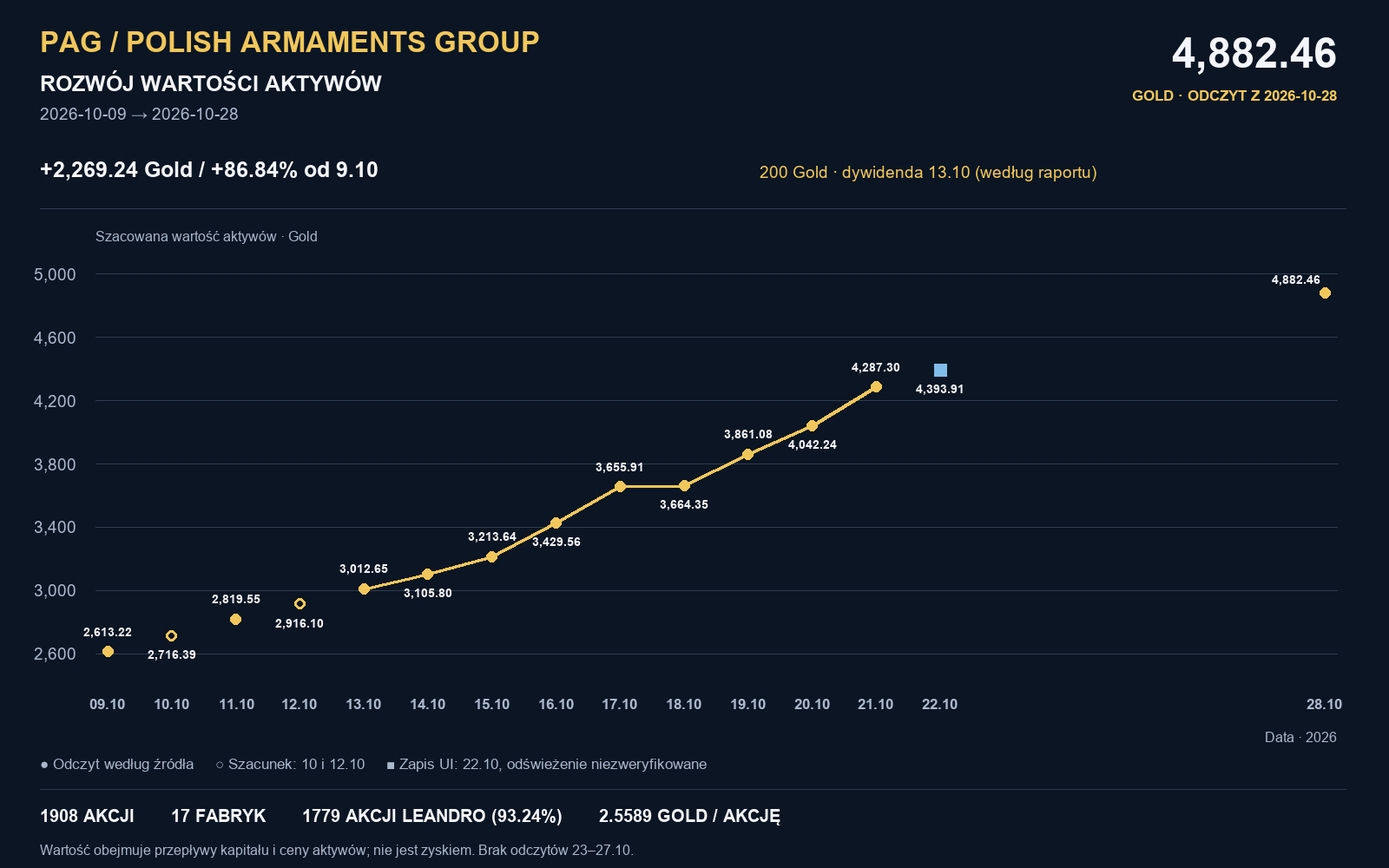
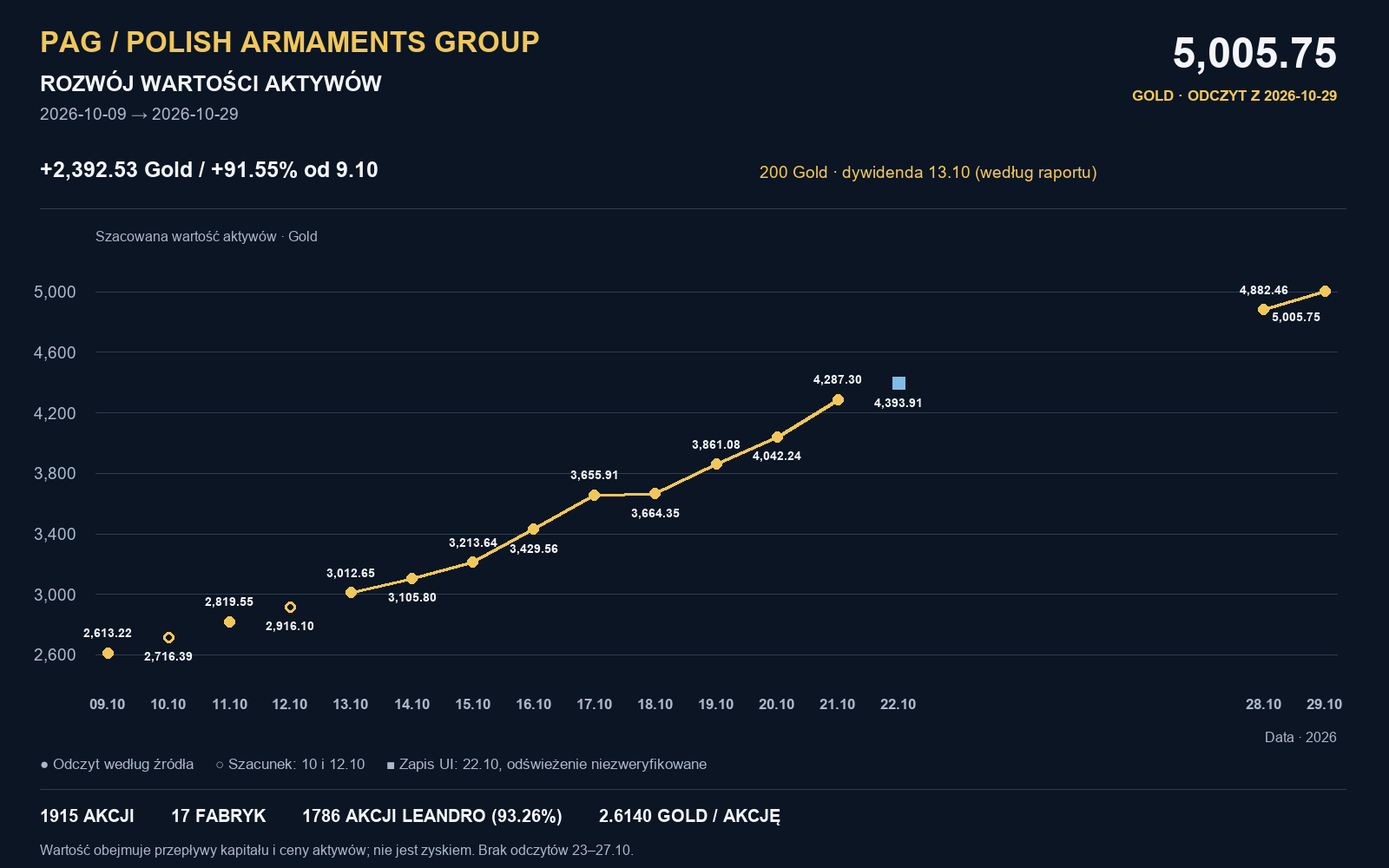
Add refreshed PAG measurement for 29 October 2026

diff --git a/pag-chart.html b/pag-chart.html
@@ -1805,7 +1805,7 @@ html&gt;body{padding:0}&lt;/style&gt;
 &lt;script src=&quot;https://cdn.jsdelivr.net/npm/d3@7.9.0/dist/d3.min.js&quot;&gt;&lt;/script&gt;
 &lt;script&gt;
 (()=&gt;{
-const history={&quot;company&quot;: &quot;Polish Armaments Group&quot;, &quot;source_url&quot;: &quot;https://vexa.e-sim.org/stockCompany.html?id=45&quot;, &quot;timezone&quot;: &quot;Europe/Warsaw&quot;, &quot;definitions&quot;: {&quot;value_gold&quot;: &quot;Szacowana wartość spółki według Vexa; nie jest zyskiem ani kapitalizacją rynkową.&quot;, &quot;book_value_per_share_gold&quot;: &quot;value_gold / shares; obliczenie, nie cena transakcyjna.&quot;, &quot;factories&quot;: &quot;Ogólnie firm na stronie spółki.&quot;, &quot;leandro_percent&quot;: &quot;100 * leandro_shares / shares&quot;, &quot;status&quot;: &quot;confirmed_in_user_report: odczyt oznaczony jako potwierdzony w raporcie użytkownika; bez niezależnej weryfikacji. estimated_missing_day: szacunek brakującego dnia, nie pomiar. saved_ui_refresh_unverified: zapis UI, odświeżenie wyceny niezweryfikowane.&quot;}, &quot;observations&quot;: [{&quot;date&quot;: &quot;2026-10-09&quot;, &quot;observed_at&quot;: null, &quot;value_gold&quot;: 2613.22, &quot;shares&quot;: null, &quot;leandro_shares&quot;: null, &quot;leandro_percent_reported&quot;: null, &quot;factories&quot;: null, &quot;shareholders&quot;: null, &quot;reported_book_value_per_share_gold&quot;: null, &quot;status&quot;: &quot;confirmed_in_user_report&quot;, &quot;source&quot;: &quot;Raport graficzny przesłany przez użytkownika 2026-10-29&quot;, &quot;source_url&quot;: &quot;https://github.com/piotrzdrenka-droid/pag-chart/blob/main/pag-chart.png?raw=true&quot;, &quot;source_blob_sha&quot;: &quot;903d835cdb9e62c0f7de1f23d691339e15198607&quot;}, {&quot;date&quot;: &quot;2026-10-10&quot;, &quot;observed_at&quot;: null, &quot;value_gold&quot;: 2716.39, &quot;shares&quot;: null, &quot;leandro_shares&quot;: null, &quot;leandro_percent_reported&quot;: null, &quot;factories&quot;: null, &quot;shareholders&quot;: null, &quot;reported_book_value_per_share_gold&quot;: null, &quot;status&quot;: &quot;estimated_missing_day&quot;, &quot;source&quot;: &quot;Raport graficzny przesłany przez użytkownika 2026-10-29&quot;, &quot;source_url&quot;: &quot;https://github.com/piotrzdrenka-droid/pag-chart/blob/main/pag-chart.png?raw=true&quot;, &quot;source_blob_sha&quot;: &quot;903d835cdb9e62c0f7de1f23d691339e15198607&quot;}, {&quot;date&quot;: &quot;2026-10-11&quot;, &quot;observed_at&quot;: null, &quot;value_gold&quot;: 2819.55, &quot;shares&quot;: 1572, &quot;leandro_shares&quot;: 1490, &quot;leandro_percent_reported&quot;: 94.78, &quot;factories&quot;: 14, &quot;reported_book_value_per_share_gold&quot;: null, &quot;source&quot;: &quot;Dane historyczne przekazane przez użytkownika 2026-10-28&quot;, &quot;corroborating_sources&quot;: [&quot;Raport ze zdjęcia przekazany 2026-10-29&quot;], &quot;status&quot;: &quot;confirmed&quot;}, {&quot;date&quot;: &quot;2026-10-12&quot;, &quot;observed_at&quot;: null, &quot;value_gold&quot;: 2916.1, &quot;shares&quot;: null, &quot;leandro_shares&quot;: null, &quot;leandro_percent_reported&quot;: null, &quot;factories&quot;: null, &quot;shareholders&quot;: null, &quot;reported_book_value_per_share_gold&quot;: null, &quot;status&quot;: &quot;estimated_missing_day&quot;, &quot;source&quot;: &quot;Raport graficzny przesłany przez użytkownika 2026-10-29&quot;, &quot;source_url&quot;: &quot;https://github.com/piotrzdrenka-droid/pag-chart/blob/main/pag-chart.png?raw=true&quot;, &quot;source_blob_sha&quot;: &quot;903d835cdb9e62c0f7de1f23d691339e15198607&quot;}, {&quot;date&quot;: &quot;2026-10-13&quot;, &quot;observed_at&quot;: null, &quot;value_gold&quot;: 3012.65, &quot;shares&quot;: null, &quot;leandro_shares&quot;: null, &quot;leandro_percent_reported&quot;: null, &quot;factories&quot;: null, &quot;shareholders&quot;: null, &quot;reported_book_value_per_share_gold&quot;: null, &quot;status&quot;: &quot;confirmed_in_user_report&quot;, &quot;source&quot;: &quot;Raport graficzny przesłany przez użytkownika 2026-10-29&quot;, &quot;source_url&quot;: &quot;https://github.com/piotrzdrenka-droid/pag-chart/blob/main/pag-chart.png?raw=true&quot;, &quot;source_blob_sha&quot;: &quot;903d835cdb9e62c0f7de1f23d691339e15198607&quot;}, {&quot;date&quot;: &quot;2026-10-14&quot;, &quot;observed_at&quot;: null, &quot;value_gold&quot;: 3105.8, &quot;shares&quot;: null, &quot;leandro_shares&quot;: null, &quot;leandro_percent_reported&quot;: null, &quot;factories&quot;: null, &quot;shareholders&quot;: null, &quot;reported_book_value_per_share_gold&quot;: null, &quot;status&quot;: &quot;confirmed_in_user_report&quot;, &quot;source&quot;: &quot;Raport graficzny przesłany przez użytkownika 2026-10-29&quot;, &quot;source_url&quot;: &quot;https://github.com/piotrzdrenka-droid/pag-chart/blob/main/pag-chart.png?raw=true&quot;, &quot;source_blob_sha&quot;: &quot;903d835cdb9e62c0f7de1f23d691339e15198607&quot;}, {&quot;date&quot;: &quot;2026-10-15&quot;, &quot;observed_at&quot;: null, &quot;value_gold&quot;: 3213.64, &quot;shares&quot;: null, &quot;leandro_shares&quot;: null, &quot;leandro_percent_reported&quot;: null, &quot;factories&quot;: null, &quot;shareholders&quot;: null, &quot;reported_book_value_per_share_gold&quot;: null, &quot;status&quot;: &quot;confirmed_in_user_report&quot;, &quot;source&quot;: &quot;Raport graficzny przesłany przez użytkownika 2026-10-29&quot;, &quot;source_url&quot;: &quot;https://github.com/piotrzdrenka-droid/pag-chart/blob/main/pag-chart.png?raw=true&quot;, &quot;source_blob_sha&quot;: &quot;903d835cdb9e62c0f7de1f23d691339e15198607&quot;}, {&quot;date&quot;: &quot;2026-10-16&quot;, &quot;observed_at&quot;: null, &quot;value_gold&quot;: 3429.56, &quot;shares&quot;: null, &quot;leandro_shares&quot;: null, &quot;leandro_percent_reported&quot;: null, &quot;factories&quot;: null, &quot;shareholders&quot;: null, &quot;reported_book_value_per_share_gold&quot;: null, &quot;status&quot;: &quot;confirmed_in_user_report&quot;, &quot;source&quot;: &quot;Raport graficzny przesłany przez użytkownika 2026-10-29&quot;, &quot;source_url&quot;: &quot;https://github.com/piotrzdrenka-droid/pag-chart/blob/main/pag-chart.png?raw=true&quot;, &quot;source_blob_sha&quot;: &quot;903d835cdb9e62c0f7de1f23d691339e15198607&quot;}, {&quot;date&quot;: &quot;2026-10-17&quot;, &quot;observed_at&quot;: null, &quot;value_gold&quot;: 3655.91, &quot;shares&quot;: null, &quot;leandro_shares&quot;: null, &quot;leandro_percent_reported&quot;: null, &quot;factories&quot;: null, &quot;shareholders&quot;: null, &quot;reported_book_value_per_share_gold&quot;: null, &quot;status&quot;: &quot;confirmed_in_user_report&quot;, &quot;source&quot;: &quot;Raport graficzny przesłany przez użytkownika 2026-10-29&quot;, &quot;source_url&quot;: &quot;https://github.com/piotrzdrenka-droid/pag-chart/blob/main/pag-chart.png?raw=true&quot;, &quot;source_blob_sha&quot;: &quot;903d835cdb9e62c0f7de1f23d691339e15198607&quot;}, {&quot;date&quot;: &quot;2026-10-18&quot;, &quot;observed_at&quot;: null, &quot;value_gold&quot;: 3664.35, &quot;shares&quot;: null, &quot;leandro_shares&quot;: null, &quot;leandro_percent_reported&quot;: null, &quot;factories&quot;: null, &quot;shareholders&quot;: null, &quot;reported_book_value_per_share_gold&quot;: null, &quot;status&quot;: &quot;confirmed_in_user_report&quot;, &quot;source&quot;: &quot;Raport graficzny przesłany przez użytkownika 2026-10-29&quot;, &quot;source_url&quot;: &quot;https://github.com/piotrzdrenka-droid/pag-chart/blob/main/pag-chart.png?raw=true&quot;, &quot;source_blob_sha&quot;: &quot;903d835cdb9e62c0f7de1f23d691339e15198607&quot;}, {&quot;date&quot;: &quot;2026-10-19&quot;, &quot;observed_at&quot;: null, &quot;value_gold&quot;: 3861.08, &quot;shares&quot;: null, &quot;leandro_shares&quot;: null, &quot;leandro_percent_reported&quot;: null, &quot;factories&quot;: null, &quot;shareholders&quot;: null, &quot;reported_book_value_per_share_gold&quot;: null, &quot;status&quot;: &quot;confirmed_in_user_report&quot;, &quot;source&quot;: &quot;Raport graficzny przesłany przez użytkownika 2026-10-29&quot;, &quot;source_url&quot;: &quot;https://github.com/piotrzdrenka-droid/pag-chart/blob/main/pag-chart.png?raw=true&quot;, &quot;source_blob_sha&quot;: &quot;903d835cdb9e62c0f7de1f23d691339e15198607&quot;}, {&quot;date&quot;: &quot;2026-10-20&quot;, &quot;observed_at&quot;: null, &quot;value_gold&quot;: 4042.24, &quot;shares&quot;: null, &quot;leandro_shares&quot;: null, &quot;leandro_percent_reported&quot;: null, &quot;factories&quot;: null, &quot;shareholders&quot;: null, &quot;reported_book_value_per_share_gold&quot;: null, &quot;status&quot;: &quot;confirmed_in_user_report&quot;, &quot;source&quot;: &quot;Raport graficzny przesłany przez użytkownika 2026-10-29&quot;, &quot;source_url&quot;: &quot;https://github.com/piotrzdrenka-droid/pag-chart/blob/main/pag-chart.png?raw=true&quot;, &quot;source_blob_sha&quot;: &quot;903d835cdb9e62c0f7de1f23d691339e15198607&quot;}, {&quot;date&quot;: &quot;2026-10-21&quot;, &quot;observed_at&quot;: null, &quot;value_gold&quot;: 4287.3, &quot;shares&quot;: null, &quot;leandro_shares&quot;: null, &quot;leandro_percent_reported&quot;: null, &quot;factories&quot;: null, &quot;shareholders&quot;: null, &quot;reported_book_value_per_share_gold&quot;: null, &quot;status&quot;: &quot;confirmed_in_user_report&quot;, &quot;source&quot;: &quot;Raport graficzny przesłany przez użytkownika 2026-10-29&quot;, &quot;source_url&quot;: &quot;https://github.com/piotrzdrenka-droid/pag-chart/blob/main/pag-chart.png?raw=true&quot;, &quot;source_blob_sha&quot;: &quot;903d835cdb9e62c0f7de1f23d691339e15198607&quot;}, {&quot;date&quot;: &quot;2026-10-22&quot;, &quot;observed_at&quot;: null, &quot;value_gold&quot;: 4393.91, &quot;shares&quot;: 1888, &quot;leandro_shares&quot;: null, &quot;leandro_percent_reported&quot;: null, &quot;factories&quot;: 16, &quot;shareholders&quot;: 9, &quot;reported_book_value_per_share_gold&quot;: 2.33, &quot;status&quot;: &quot;saved_ui_refresh_unverified&quot;, &quot;source&quot;: &quot;Raport graficzny przesłany przez użytkownika 2026-10-29&quot;, &quot;source_url&quot;: &quot;https://github.com/piotrzdrenka-droid/pag-chart/blob/main/pag-chart.png?raw=true&quot;, &quot;source_blob_sha&quot;: &quot;903d835cdb9e62c0f7de1f23d691339e15198607&quot;}, {&quot;date&quot;: &quot;2026-10-28&quot;, &quot;observed_at&quot;: &quot;2026-10-28T18:58:00Z&quot;, &quot;value_gold&quot;: 4882.46, &quot;shares&quot;: 1908, &quot;leandro_shares&quot;: 1779, &quot;leandro_percent_reported&quot;: 93.24, &quot;factories&quot;: 17, &quot;reported_book_value_per_share_gold&quot;: 2.56, &quot;source&quot;: &quot;Odczyt widocznej strony Vexa bez logowania; czas zapisu pomiaru, nie czas wyceny aktywów&quot;, &quot;status&quot;: &quot;confirmed&quot;}], &quot;events&quot;: [{&quot;date&quot;: &quot;2026-10-13&quot;, &quot;type&quot;: &quot;dividend&quot;, &quot;amount_gold&quot;: 200, &quot;source&quot;: &quot;Raport graficzny użytkownika&quot;, &quot;notes&quot;: &quot;Wypłata według raportu. Nie doliczono do wartości aktywów.&quot;}]};
+const history={&quot;company&quot;: &quot;Polish Armaments Group&quot;, &quot;source_url&quot;: &quot;https://vexa.e-sim.org/stockCompany.html?id=45&quot;, &quot;timezone&quot;: &quot;Europe/Warsaw&quot;, &quot;definitions&quot;: {&quot;value_gold&quot;: &quot;Szacowana wartość spółki według Vexa; nie jest zyskiem ani kapitalizacją rynkową.&quot;, &quot;book_value_per_share_gold&quot;: &quot;value_gold / shares; obliczenie, nie cena transakcyjna.&quot;, &quot;factories&quot;: &quot;Ogólnie firm na stronie spółki.&quot;, &quot;leandro_percent&quot;: &quot;100 * leandro_shares / shares&quot;, &quot;status&quot;: &quot;confirmed_in_user_report: odczyt oznaczony jako potwierdzony w raporcie użytkownika; bez niezależnej weryfikacji. estimated_missing_day: szacunek brakującego dnia, nie pomiar. saved_ui_refresh_unverified: zapis UI, odświeżenie wyceny niezweryfikowane.&quot;}, &quot;observations&quot;: [{&quot;date&quot;: &quot;2026-10-09&quot;, &quot;observed_at&quot;: null, &quot;value_gold&quot;: 2613.22, &quot;shares&quot;: null, &quot;leandro_shares&quot;: null, &quot;leandro_percent_reported&quot;: null, &quot;factories&quot;: null, &quot;shareholders&quot;: null, &quot;reported_book_value_per_share_gold&quot;: null, &quot;status&quot;: &quot;confirmed_in_user_report&quot;, &quot;source&quot;: &quot;Raport graficzny przesłany przez użytkownika 2026-10-29&quot;, &quot;source_url&quot;: &quot;https://github.com/piotrzdrenka-droid/pag-chart/blob/main/pag-chart.png?raw=true&quot;, &quot;source_blob_sha&quot;: &quot;903d835cdb9e62c0f7de1f23d691339e15198607&quot;}, {&quot;date&quot;: &quot;2026-10-10&quot;, &quot;observed_at&quot;: null, &quot;value_gold&quot;: 2716.39, &quot;shares&quot;: null, &quot;leandro_shares&quot;: null, &quot;leandro_percent_reported&quot;: null, &quot;factories&quot;: null, &quot;shareholders&quot;: null, &quot;reported_book_value_per_share_gold&quot;: null, &quot;status&quot;: &quot;estimated_missing_day&quot;, &quot;source&quot;: &quot;Raport graficzny przesłany przez użytkownika 2026-10-29&quot;, &quot;source_url&quot;: &quot;https://github.com/piotrzdrenka-droid/pag-chart/blob/main/pag-chart.png?raw=true&quot;, &quot;source_blob_sha&quot;: &quot;903d835cdb9e62c0f7de1f23d691339e15198607&quot;}, {&quot;date&quot;: &quot;2026-10-11&quot;, &quot;observed_at&quot;: null, &quot;value_gold&quot;: 2819.55, &quot;shares&quot;: 1572, &quot;leandro_shares&quot;: 1490, &quot;leandro_percent_reported&quot;: 94.78, &quot;factories&quot;: 14, &quot;reported_book_value_per_share_gold&quot;: null, &quot;source&quot;: &quot;Dane historyczne przekazane przez użytkownika 2026-10-28&quot;, &quot;corroborating_sources&quot;: [&quot;Raport ze zdjęcia przekazany 2026-10-29&quot;], &quot;status&quot;: &quot;confirmed&quot;}, {&quot;date&quot;: &quot;2026-10-12&quot;, &quot;observed_at&quot;: null, &quot;value_gold&quot;: 2916.1, &quot;shares&quot;: null, &quot;leandro_shares&quot;: null, &quot;leandro_percent_reported&quot;: null, &quot;factories&quot;: null, &quot;shareholders&quot;: null, &quot;reported_book_value_per_share_gold&quot;: null, &quot;status&quot;: &quot;estimated_missing_day&quot;, &quot;source&quot;: &quot;Raport graficzny przesłany przez użytkownika 2026-10-29&quot;, &quot;source_url&quot;: &quot;https://github.com/piotrzdrenka-droid/pag-chart/blob/main/pag-chart.png?raw=true&quot;, &quot;source_blob_sha&quot;: &quot;903d835cdb9e62c0f7de1f23d691339e15198607&quot;}, {&quot;date&quot;: &quot;2026-10-13&quot;, &quot;observed_at&quot;: null, &quot;value_gold&quot;: 3012.65, &quot;shares&quot;: null, &quot;leandro_shares&quot;: null, &quot;leandro_percent_reported&quot;: null, &quot;factories&quot;: null, &quot;shareholders&quot;: null, &quot;reported_book_value_per_share_gold&quot;: null, &quot;status&quot;: &quot;confirmed_in_user_report&quot;, &quot;source&quot;: &quot;Raport graficzny przesłany przez użytkownika 2026-10-29&quot;, &quot;source_url&quot;: &quot;https://github.com/piotrzdrenka-droid/pag-chart/blob/main/pag-chart.png?raw=true&quot;, &quot;source_blob_sha&quot;: &quot;903d835cdb9e62c0f7de1f23d691339e15198607&quot;}, {&quot;date&quot;: &quot;2026-10-14&quot;, &quot;observed_at&quot;: null, &quot;value_gold&quot;: 3105.8, &quot;shares&quot;: null, &quot;leandro_shares&quot;: null, &quot;leandro_percent_reported&quot;: null, &quot;factories&quot;: null, &quot;shareholders&quot;: null, &quot;reported_book_value_per_share_gold&quot;: null, &quot;status&quot;: &quot;confirmed_in_user_report&quot;, &quot;source&quot;: &quot;Raport graficzny przesłany przez użytkownika 2026-10-29&quot;, &quot;source_url&quot;: &quot;https://github.com/piotrzdrenka-droid/pag-chart/blob/main/pag-chart.png?raw=true&quot;, &quot;source_blob_sha&quot;: &quot;903d835cdb9e62c0f7de1f23d691339e15198607&quot;}, {&quot;date&quot;: &quot;2026-10-15&quot;, &quot;observed_at&quot;: null, &quot;value_gold&quot;: 3213.64, &quot;shares&quot;: null, &quot;leandro_shares&quot;: null, &quot;leandro_percent_reported&quot;: null, &quot;factories&quot;: null, &quot;shareholders&quot;: null, &quot;reported_book_value_per_share_gold&quot;: null, &quot;status&quot;: &quot;confirmed_in_user_report&quot;, &quot;source&quot;: &quot;Raport graficzny przesłany przez użytkownika 2026-10-29&quot;, &quot;source_url&quot;: &quot;https://github.com/piotrzdrenka-droid/pag-chart/blob/main/pag-chart.png?raw=true&quot;, &quot;source_blob_sha&quot;: &quot;903d835cdb9e62c0f7de1f23d691339e15198607&quot;}, {&quot;date&quot;: &quot;2026-10-16&quot;, &quot;observed_at&quot;: null, &quot;value_gold&quot;: 3429.56, &quot;shares&quot;: null, &quot;leandro_shares&quot;: null, &quot;leandro_percent_reported&quot;: null, &quot;factories&quot;: null, &quot;shareholders&quot;: null, &quot;reported_book_value_per_share_gold&quot;: null, &quot;status&quot;: &quot;confirmed_in_user_report&quot;, &quot;source&quot;: &quot;Raport graficzny przesłany przez użytkownika 2026-10-29&quot;, &quot;source_url&quot;: &quot;https://github.com/piotrzdrenka-droid/pag-chart/blob/main/pag-chart.png?raw=true&quot;, &quot;source_blob_sha&quot;: &quot;903d835cdb9e62c0f7de1f23d691339e15198607&quot;}, {&quot;date&quot;: &quot;2026-10-17&quot;, &quot;observed_at&quot;: null, &quot;value_gold&quot;: 3655.91, &quot;shares&quot;: null, &quot;leandro_shares&quot;: null, &quot;leandro_percent_reported&quot;: null, &quot;factories&quot;: null, &quot;shareholders&quot;: null, &quot;reported_book_value_per_share_gold&quot;: null, &quot;status&quot;: &quot;confirmed_in_user_report&quot;, &quot;source&quot;: &quot;Raport graficzny przesłany przez użytkownika 2026-10-29&quot;, &quot;source_url&quot;: &quot;https://github.com/piotrzdrenka-droid/pag-chart/blob/main/pag-chart.png?raw=true&quot;, &quot;source_blob_sha&quot;: &quot;903d835cdb9e62c0f7de1f23d691339e15198607&quot;}, {&quot;date&quot;: &quot;2026-10-18&quot;, &quot;observed_at&quot;: null, &quot;value_gold&quot;: 3664.35, &quot;shares&quot;: null, &quot;leandro_shares&quot;: null, &quot;leandro_percent_reported&quot;: null, &quot;factories&quot;: null, &quot;shareholders&quot;: null, &quot;reported_book_value_per_share_gold&quot;: null, &quot;status&quot;: &quot;confirmed_in_user_report&quot;, &quot;source&quot;: &quot;Raport graficzny przesłany przez użytkownika 2026-10-29&quot;, &quot;source_url&quot;: &quot;https://github.com/piotrzdrenka-droid/pag-chart/blob/main/pag-chart.png?raw=true&quot;, &quot;source_blob_sha&quot;: &quot;903d835cdb9e62c0f7de1f23d691339e15198607&quot;}, {&quot;date&quot;: &quot;2026-10-19&quot;, &quot;observed_at&quot;: null, &quot;value_gold&quot;: 3861.08, &quot;shares&quot;: null, &quot;leandro_shares&quot;: null, &quot;leandro_percent_reported&quot;: null, &quot;factories&quot;: null, &quot;shareholders&quot;: null, &quot;reported_book_value_per_share_gold&quot;: null, &quot;status&quot;: &quot;confirmed_in_user_report&quot;, &quot;source&quot;: &quot;Raport graficzny przesłany przez użytkownika 2026-10-29&quot;, &quot;source_url&quot;: &quot;https://github.com/piotrzdrenka-droid/pag-chart/blob/main/pag-chart.png?raw=true&quot;, &quot;source_blob_sha&quot;: &quot;903d835cdb9e62c0f7de1f23d691339e15198607&quot;}, {&quot;date&quot;: &quot;2026-10-20&quot;, &quot;observed_at&quot;: null, &quot;value_gold&quot;: 4042.24, &quot;shares&quot;: null, &quot;leandro_shares&quot;: null, &quot;leandro_percent_reported&quot;: null, &quot;factories&quot;: null, &quot;shareholders&quot;: null, &quot;reported_book_value_per_share_gold&quot;: null, &quot;status&quot;: &quot;confirmed_in_user_report&quot;, &quot;source&quot;: &quot;Raport graficzny przesłany przez użytkownika 2026-10-29&quot;, &quot;source_url&quot;: &quot;https://github.com/piotrzdrenka-droid/pag-chart/blob/main/pag-chart.png?raw=true&quot;, &quot;source_blob_sha&quot;: &quot;903d835cdb9e62c0f7de1f23d691339e15198607&quot;}, {&quot;date&quot;: &quot;2026-10-21&quot;, &quot;observed_at&quot;: null, &quot;value_gold&quot;: 4287.3, &quot;shares&quot;: null, &quot;leandro_shares&quot;: null, &quot;leandro_percent_reported&quot;: null, &quot;factories&quot;: null, &quot;shareholders&quot;: null, &quot;reported_book_value_per_share_gold&quot;: null, &quot;status&quot;: &quot;confirmed_in_user_report&quot;, &quot;source&quot;: &quot;Raport graficzny przesłany przez użytkownika 2026-10-29&quot;, &quot;source_url&quot;: &quot;https://github.com/piotrzdrenka-droid/pag-chart/blob/main/pag-chart.png?raw=true&quot;, &quot;source_blob_sha&quot;: &quot;903d835cdb9e62c0f7de1f23d691339e15198607&quot;}, {&quot;date&quot;: &quot;2026-10-22&quot;, &quot;observed_at&quot;: null, &quot;value_gold&quot;: 4393.91, &quot;shares&quot;: 1888, &quot;leandro_shares&quot;: null, &quot;leandro_percent_reported&quot;: null, &quot;factories&quot;: 16, &quot;shareholders&quot;: 9, &quot;reported_book_value_per_share_gold&quot;: 2.33, &quot;status&quot;: &quot;saved_ui_refresh_unverified&quot;, &quot;source&quot;: &quot;Raport graficzny przesłany przez użytkownika 2026-10-29&quot;, &quot;source_url&quot;: &quot;https://github.com/piotrzdrenka-droid/pag-chart/blob/main/pag-chart.png?raw=true&quot;, &quot;source_blob_sha&quot;: &quot;903d835cdb9e62c0f7de1f23d691339e15198607&quot;}, {&quot;date&quot;: &quot;2026-10-28&quot;, &quot;observed_at&quot;: &quot;2026-10-28T18:58:00Z&quot;, &quot;value_gold&quot;: 4882.46, &quot;shares&quot;: 1908, &quot;leandro_shares&quot;: 1779, &quot;leandro_percent_reported&quot;: 93.24, &quot;factories&quot;: 17, &quot;reported_book_value_per_share_gold&quot;: 2.56, &quot;source&quot;: &quot;Odczyt widocznej strony Vexa bez logowania; czas zapisu pomiaru, nie czas wyceny aktywów&quot;, &quot;status&quot;: &quot;confirmed&quot;}, {&quot;date&quot;: &quot;2026-10-29&quot;, &quot;observed_at&quot;: &quot;2026-10-29T18:12:54Z&quot;, &quot;value_gold&quot;: 5005.75, &quot;shares&quot;: 1915, &quot;leandro_shares&quot;: 1786, &quot;leandro_percent_reported&quot;: 93.26, &quot;factories&quot;: 17, &quot;shareholders&quot;: 9, &quot;reported_book_value_per_share_gold&quot;: 2.61, &quot;status&quot;: &quot;confirmed&quot;, &quot;source&quot;: &quot;Odczyt publicznej strony Vexa po wybraniu Odśwież. Serwis potwierdził: Raport został odświeżony. Czas zapisu pomiaru, nie gwarantowany czas wyceny poszczególnych aktywów.&quot;, &quot;source_url&quot;: &quot;https://vexa.e-sim.org/stockCompany.html?id=45&quot;, &quot;report_refresh_confirmed&quot;: true}], &quot;events&quot;: [{&quot;date&quot;: &quot;2026-10-13&quot;, &quot;type&quot;: &quot;dividend&quot;, &quot;amount_gold&quot;: 200, &quot;source&quot;: &quot;Raport graficzny użytkownika&quot;, &quot;notes&quot;: &quot;Wypłata według raportu. Nie doliczono do wartości aktywów.&quot;}]};
 const root=document.getElementById(&#x27;pag-growth&#x27;),select=root.querySelector(&#x27;select&#x27;),box=root.querySelector(&#x27;#pag-plot&#x27;);
 const data=history.observations.map(d=&gt;({...d,x:new Date(d.date+&#x27;T12:00:00Z&#x27;),ownership:d.leandro_shares!=null&amp;&amp;d.shares&gt;0?100*d.leandro_shares/d.shares:null,perShare:d.value_gold!=null&amp;&amp;d.shares&gt;0?d.value_gold/d.shares:null}));
 const metrics={value_gold:[&#x27;Wartość spółki&#x27;,&#x27;Gold&#x27;,2],shares:[&#x27;Wyemitowane akcje&#x27;,&#x27;akcje&#x27;,0],leandro_shares:[&#x27;Akcje Leandro Daniels&#x27;,&#x27;akcje&#x27;,0],ownership:[&#x27;Udział Leandro&#x27;,&#x27;%&#x27;,2],perShare:[&#x27;Wartość aktywów na akcję&#x27;,&#x27;Gold/akcję&#x27;,4],factories:[&#x27;Fabryki&#x27;,&#x27;fabryki&#x27;,0]};

diff --git a/pag-growth.html b/pag-growth.html
@@ -13,7 +13,7 @@
 <script src="https://cdn.jsdelivr.net/npm/d3@7.9.0/dist/d3.min.js"></script>
 <script>
 (()=>{
-const history={"company": "Polish Armaments Group", "source_url": "https://vexa.e-sim.org/stockCompany.html?id=45", "timezone": "Europe/Warsaw", "definitions": {"value_gold": "Szacowana wartość spółki według Vexa; nie jest zyskiem ani kapitalizacją rynkową.", "book_value_per_share_gold": "value_gold / shares; obliczenie, nie cena transakcyjna.", "factories": "Ogólnie firm na stronie spółki.", "leandro_percent": "100 * leandro_shares / shares", "status": "confirmed_in_user_report: odczyt oznaczony jako potwierdzony w raporcie użytkownika; bez niezależnej weryfikacji. estimated_missing_day: szacunek brakującego dnia, nie pomiar. saved_ui_refresh_unverified: zapis UI, odświeżenie wyceny niezweryfikowane."}, "observations": [{"date": "2026-10-09", "observed_at": null, "value_gold": 2613.22, "shares": null, "leandro_shares": null, "leandro_percent_reported": null, "factories": null, "shareholders": null, "reported_book_value_per_share_gold": null, "status": "confirmed_in_user_report", "source": "Raport graficzny przesłany przez użytkownika 2026-10-29", "source_url": "https://github.com/piotrzdrenka-droid/pag-chart/blob/main/pag-chart.png?raw=true", "source_blob_sha": "903d835cdb9e62c0f7de1f23d691339e15198607"}, {"date": "2026-10-10", "observed_at": null, "value_gold": 2716.39, "shares": null, "leandro_shares": null, "leandro_percent_reported": null, "factories": null, "shareholders": null, "reported_book_value_per_share_gold": null, "status": "estimated_missing_day", "source": "Raport graficzny przesłany przez użytkownika 2026-10-29", "source_url": "https://github.com/piotrzdrenka-droid/pag-chart/blob/main/pag-chart.png?raw=true", "source_blob_sha": "903d835cdb9e62c0f7de1f23d691339e15198607"}, {"date": "2026-10-11", "observed_at": null, "value_gold": 2819.55, "shares": 1572, "leandro_shares": 1490, "leandro_percent_reported": 94.78, "factories": 14, "reported_book_value_per_share_gold": null, "source": "Dane historyczne przekazane przez użytkownika 2026-10-28", "corroborating_sources": ["Raport ze zdjęcia przekazany 2026-10-29"], "status": "confirmed"}, {"date": "2026-10-12", "observed_at": null, "value_gold": 2916.1, "shares": null, "leandro_shares": null, "leandro_percent_reported": null, "factories": null, "shareholders": null, "reported_book_value_per_share_gold": null, "status": "estimated_missing_day", "source": "Raport graficzny przesłany przez użytkownika 2026-10-29", "source_url": "https://github.com/piotrzdrenka-droid/pag-chart/blob/main/pag-chart.png?raw=true", "source_blob_sha": "903d835cdb9e62c0f7de1f23d691339e15198607"}, {"date": "2026-10-13", "observed_at": null, "value_gold": 3012.65, "shares": null, "leandro_shares": null, "leandro_percent_reported": null, "factories": null, "shareholders": null, "reported_book_value_per_share_gold": null, "status": "confirmed_in_user_report", "source": "Raport graficzny przesłany przez użytkownika 2026-10-29", "source_url": "https://github.com/piotrzdrenka-droid/pag-chart/blob/main/pag-chart.png?raw=true", "source_blob_sha": "903d835cdb9e62c0f7de1f23d691339e15198607"}, {"date": "2026-10-14", "observed_at": null, "value_gold": 3105.8, "shares": null, "leandro_shares": null, "leandro_percent_reported": null, "factories": null, "shareholders": null, "reported_book_value_per_share_gold": null, "status": "confirmed_in_user_report", "source": "Raport graficzny przesłany przez użytkownika 2026-10-29", "source_url": "https://github.com/piotrzdrenka-droid/pag-chart/blob/main/pag-chart.png?raw=true", "source_blob_sha": "903d835cdb9e62c0f7de1f23d691339e15198607"}, {"date": "2026-10-15", "observed_at": null, "value_gold": 3213.64, "shares": null, "leandro_shares": null, "leandro_percent_reported": null, "factories": null, "shareholders": null, "reported_book_value_per_share_gold": null, "status": "confirmed_in_user_report", "source": "Raport graficzny przesłany przez użytkownika 2026-10-29", "source_url": "https://github.com/piotrzdrenka-droid/pag-chart/blob/main/pag-chart.png?raw=true", "source_blob_sha": "903d835cdb9e62c0f7de1f23d691339e15198607"}, {"date": "2026-10-16", "observed_at": null, "value_gold": 3429.56, "shares": null, "leandro_shares": null, "leandro_percent_reported": null, "factories": null, "shareholders": null, "reported_book_value_per_share_gold": null, "status": "confirmed_in_user_report", "source": "Raport graficzny przesłany przez użytkownika 2026-10-29", "source_url": "https://github.com/piotrzdrenka-droid/pag-chart/blob/main/pag-chart.png?raw=true", "source_blob_sha": "903d835cdb9e62c0f7de1f23d691339e15198607"}, {"date": "2026-10-17", "observed_at": null, "value_gold": 3655.91, "shares": null, "leandro_shares": null, "leandro_percent_reported": null, "factories": null, "shareholders": null, "reported_book_value_per_share_gold": null, "status": "confirmed_in_user_report", "source": "Raport graficzny przesłany przez użytkownika 2026-10-29", "source_url": "https://github.com/piotrzdrenka-droid/pag-chart/blob/main/pag-chart.png?raw=true", "source_blob_sha": "903d835cdb9e62c0f7de1f23d691339e15198607"}, {"date": "2026-10-18", "observed_at": null, "value_gold": 3664.35, "shares": null, "leandro_shares": null, "leandro_percent_reported": null, "factories": null, "shareholders": null, "reported_book_value_per_share_gold": null, "status": "confirmed_in_user_report", "source": "Raport graficzny przesłany przez użytkownika 2026-10-29", "source_url": "https://github.com/piotrzdrenka-droid/pag-chart/blob/main/pag-chart.png?raw=true", "source_blob_sha": "903d835cdb9e62c0f7de1f23d691339e15198607"}, {"date": "2026-10-19", "observed_at": null, "value_gold": 3861.08, "shares": null, "leandro_shares": null, "leandro_percent_reported": null, "factories": null, "shareholders": null, "reported_book_value_per_share_gold": null, "status": "confirmed_in_user_report", "source": "Raport graficzny przesłany przez użytkownika 2026-10-29", "source_url": "https://github.com/piotrzdrenka-droid/pag-chart/blob/main/pag-chart.png?raw=true", "source_blob_sha": "903d835cdb9e62c0f7de1f23d691339e15198607"}, {"date": "2026-10-20", "observed_at": null, "value_gold": 4042.24, "shares": null, "leandro_shares": null, "leandro_percent_reported": null, "factories": null, "shareholders": null, "reported_book_value_per_share_gold": null, "status": "confirmed_in_user_report", "source": "Raport graficzny przesłany przez użytkownika 2026-10-29", "source_url": "https://github.com/piotrzdrenka-droid/pag-chart/blob/main/pag-chart.png?raw=true", "source_blob_sha": "903d835cdb9e62c0f7de1f23d691339e15198607"}, {"date": "2026-10-21", "observed_at": null, "value_gold": 4287.3, "shares": null, "leandro_shares": null, "leandro_percent_reported": null, "factories": null, "shareholders": null, "reported_book_value_per_share_gold": null, "status": "confirmed_in_user_report", "source": "Raport graficzny przesłany przez użytkownika 2026-10-29", "source_url": "https://github.com/piotrzdrenka-droid/pag-chart/blob/main/pag-chart.png?raw=true", "source_blob_sha": "903d835cdb9e62c0f7de1f23d691339e15198607"}, {"date": "2026-10-22", "observed_at": null, "value_gold": 4393.91, "shares": 1888, "leandro_shares": null, "leandro_percent_reported": null, "factories": 16, "shareholders": 9, "reported_book_value_per_share_gold": 2.33, "status": "saved_ui_refresh_unverified", "source": "Raport graficzny przesłany przez użytkownika 2026-10-29", "source_url": "https://github.com/piotrzdrenka-droid/pag-chart/blob/main/pag-chart.png?raw=true", "source_blob_sha": "903d835cdb9e62c0f7de1f23d691339e15198607"}, {"date": "2026-10-28", "observed_at": "2026-10-28T18:58:00Z", "value_gold": 4882.46, "shares": 1908, "leandro_shares": 1779, "leandro_percent_reported": 93.24, "factories": 17, "reported_book_value_per_share_gold": 2.56, "source": "Odczyt widocznej strony Vexa bez logowania; czas zapisu pomiaru, nie czas wyceny aktywów", "status": "confirmed"}], "events": [{"date": "2026-10-13", "type": "dividend", "amount_gold": 200, "source": "Raport graficzny użytkownika", "notes": "Wypłata według raportu. Nie doliczono do wartości aktywów."}]};
+const history={"company": "Polish Armaments Group", "source_url": "https://vexa.e-sim.org/stockCompany.html?id=45", "timezone": "Europe/Warsaw", "definitions": {"value_gold": "Szacowana wartość spółki według Vexa; nie jest zyskiem ani kapitalizacją rynkową.", "book_value_per_share_gold": "value_gold / shares; obliczenie, nie cena transakcyjna.", "factories": "Ogólnie firm na stronie spółki.", "leandro_percent": "100 * leandro_shares / shares", "status": "confirmed_in_user_report: odczyt oznaczony jako potwierdzony w raporcie użytkownika; bez niezależnej weryfikacji. estimated_missing_day: szacunek brakującego dnia, nie pomiar. saved_ui_refresh_unverified: zapis UI, odświeżenie wyceny niezweryfikowane."}, "observations": [{"date": "2026-10-09", "observed_at": null, "value_gold": 2613.22, "shares": null, "leandro_shares": null, "leandro_percent_reported": null, "factories": null, "shareholders": null, "reported_book_value_per_share_gold": null, "status": "confirmed_in_user_report", "source": "Raport graficzny przesłany przez użytkownika 2026-10-29", "source_url": "https://github.com/piotrzdrenka-droid/pag-chart/blob/main/pag-chart.png?raw=true", "source_blob_sha": "903d835cdb9e62c0f7de1f23d691339e15198607"}, {"date": "2026-10-10", "observed_at": null, "value_gold": 2716.39, "shares": null, "leandro_shares": null, "leandro_percent_reported": null, "factories": null, "shareholders": null, "reported_book_value_per_share_gold": null, "status": "estimated_missing_day", "source": "Raport graficzny przesłany przez użytkownika 2026-10-29", "source_url": "https://github.com/piotrzdrenka-droid/pag-chart/blob/main/pag-chart.png?raw=true", "source_blob_sha": "903d835cdb9e62c0f7de1f23d691339e15198607"}, {"date": "2026-10-11", "observed_at": null, "value_gold": 2819.55, "shares": 1572, "leandro_shares": 1490, "leandro_percent_reported": 94.78, "factories": 14, "reported_book_value_per_share_gold": null, "source": "Dane historyczne przekazane przez użytkownika 2026-10-28", "corroborating_sources": ["Raport ze zdjęcia przekazany 2026-10-29"], "status": "confirmed"}, {"date": "2026-10-12", "observed_at": null, "value_gold": 2916.1, "shares": null, "leandro_shares": null, "leandro_percent_reported": null, "factories": null, "shareholders": null, "reported_book_value_per_share_gold": null, "status": "estimated_missing_day", "source": "Raport graficzny przesłany przez użytkownika 2026-10-29", "source_url": "https://github.com/piotrzdrenka-droid/pag-chart/blob/main/pag-chart.png?raw=true", "source_blob_sha": "903d835cdb9e62c0f7de1f23d691339e15198607"}, {"date": "2026-10-13", "observed_at": null, "value_gold": 3012.65, "shares": null, "leandro_shares": null, "leandro_percent_reported": null, "factories": null, "shareholders": null, "reported_book_value_per_share_gold": null, "status": "confirmed_in_user_report", "source": "Raport graficzny przesłany przez użytkownika 2026-10-29", "source_url": "https://github.com/piotrzdrenka-droid/pag-chart/blob/main/pag-chart.png?raw=true", "source_blob_sha": "903d835cdb9e62c0f7de1f23d691339e15198607"}, {"date": "2026-10-14", "observed_at": null, "value_gold": 3105.8, "shares": null, "leandro_shares": null, "leandro_percent_reported": null, "factories": null, "shareholders": null, "reported_book_value_per_share_gold": null, "status": "confirmed_in_user_report", "source": "Raport graficzny przesłany przez użytkownika 2026-10-29", "source_url": "https://github.com/piotrzdrenka-droid/pag-chart/blob/main/pag-chart.png?raw=true", "source_blob_sha": "903d835cdb9e62c0f7de1f23d691339e15198607"}, {"date": "2026-10-15", "observed_at": null, "value_gold": 3213.64, "shares": null, "leandro_shares": null, "leandro_percent_reported": null, "factories": null, "shareholders": null, "reported_book_value_per_share_gold": null, "status": "confirmed_in_user_report", "source": "Raport graficzny przesłany przez użytkownika 2026-10-29", "source_url": "https://github.com/piotrzdrenka-droid/pag-chart/blob/main/pag-chart.png?raw=true", "source_blob_sha": "903d835cdb9e62c0f7de1f23d691339e15198607"}, {"date": "2026-10-16", "observed_at": null, "value_gold": 3429.56, "shares": null, "leandro_shares": null, "leandro_percent_reported": null, "factories": null, "shareholders": null, "reported_book_value_per_share_gold": null, "status": "confirmed_in_user_report", "source": "Raport graficzny przesłany przez użytkownika 2026-10-29", "source_url": "https://github.com/piotrzdrenka-droid/pag-chart/blob/main/pag-chart.png?raw=true", "source_blob_sha": "903d835cdb9e62c0f7de1f23d691339e15198607"}, {"date": "2026-10-17", "observed_at": null, "value_gold": 3655.91, "shares": null, "leandro_shares": null, "leandro_percent_reported": null, "factories": null, "shareholders": null, "reported_book_value_per_share_gold": null, "status": "confirmed_in_user_report", "source": "Raport graficzny przesłany przez użytkownika 2026-10-29", "source_url": "https://github.com/piotrzdrenka-droid/pag-chart/blob/main/pag-chart.png?raw=true", "source_blob_sha": "903d835cdb9e62c0f7de1f23d691339e15198607"}, {"date": "2026-10-18", "observed_at": null, "value_gold": 3664.35, "shares": null, "leandro_shares": null, "leandro_percent_reported": null, "factories": null, "shareholders": null, "reported_book_value_per_share_gold": null, "status": "confirmed_in_user_report", "source": "Raport graficzny przesłany przez użytkownika 2026-10-29", "source_url": "https://github.com/piotrzdrenka-droid/pag-chart/blob/main/pag-chart.png?raw=true", "source_blob_sha": "903d835cdb9e62c0f7de1f23d691339e15198607"}, {"date": "2026-10-19", "observed_at": null, "value_gold": 3861.08, "shares": null, "leandro_shares": null, "leandro_percent_reported": null, "factories": null, "shareholders": null, "reported_book_value_per_share_gold": null, "status": "confirmed_in_user_report", "source": "Raport graficzny przesłany przez użytkownika 2026-10-29", "source_url": "https://github.com/piotrzdrenka-droid/pag-chart/blob/main/pag-chart.png?raw=true", "source_blob_sha": "903d835cdb9e62c0f7de1f23d691339e15198607"}, {"date": "2026-10-20", "observed_at": null, "value_gold": 4042.24, "shares": null, "leandro_shares": null, "leandro_percent_reported": null, "factories": null, "shareholders": null, "reported_book_value_per_share_gold": null, "status": "confirmed_in_user_report", "source": "Raport graficzny przesłany przez użytkownika 2026-10-29", "source_url": "https://github.com/piotrzdrenka-droid/pag-chart/blob/main/pag-chart.png?raw=true", "source_blob_sha": "903d835cdb9e62c0f7de1f23d691339e15198607"}, {"date": "2026-10-21", "observed_at": null, "value_gold": 4287.3, "shares": null, "leandro_shares": null, "leandro_percent_reported": null, "factories": null, "shareholders": null, "reported_book_value_per_share_gold": null, "status": "confirmed_in_user_report", "source": "Raport graficzny przesłany przez użytkownika 2026-10-29", "source_url": "https://github.com/piotrzdrenka-droid/pag-chart/blob/main/pag-chart.png?raw=true", "source_blob_sha": "903d835cdb9e62c0f7de1f23d691339e15198607"}, {"date": "2026-10-22", "observed_at": null, "value_gold": 4393.91, "shares": 1888, "leandro_shares": null, "leandro_percent_reported": null, "factories": 16, "shareholders": 9, "reported_book_value_per_share_gold": 2.33, "status": "saved_ui_refresh_unverified", "source": "Raport graficzny przesłany przez użytkownika 2026-10-29", "source_url": "https://github.com/piotrzdrenka-droid/pag-chart/blob/main/pag-chart.png?raw=true", "source_blob_sha": "903d835cdb9e62c0f7de1f23d691339e15198607"}, {"date": "2026-10-28", "observed_at": "2026-10-28T18:58:00Z", "value_gold": 4882.46, "shares": 1908, "leandro_shares": 1779, "leandro_percent_reported": 93.24, "factories": 17, "reported_book_value_per_share_gold": 2.56, "source": "Odczyt widocznej strony Vexa bez logowania; czas zapisu pomiaru, nie czas wyceny aktywów", "status": "confirmed"}, {"date": "2026-10-29", "observed_at": "2026-10-29T18:12:54Z", "value_gold": 5005.75, "shares": 1915, "leandro_shares": 1786, "leandro_percent_reported": 93.26, "factories": 17, "shareholders": 9, "reported_book_value_per_share_gold": 2.61, "status": "confirmed", "source": "Odczyt publicznej strony Vexa po wybraniu Odśwież. Serwis potwierdził: Raport został odświeżony. Czas zapisu pomiaru, nie gwarantowany czas wyceny poszczególnych aktywów.", "source_url": "https://vexa.e-sim.org/stockCompany.html?id=45", "report_refresh_confirmed": true}], "events": [{"date": "2026-10-13", "type": "dividend", "amount_gold": 200, "source": "Raport graficzny użytkownika", "notes": "Wypłata według raportu. Nie doliczono do wartości aktywów."}]};
 const root=document.getElementById('pag-growth'),select=root.querySelector('select'),box=root.querySelector('#pag-plot');
 const data=history.observations.map(d=>({...d,x:new Date(d.date+'T12:00:00Z'),ownership:d.leandro_shares!=null&&d.shares>0?100*d.leandro_shares/d.shares:null,perShare:d.value_gold!=null&&d.shares>0?d.value_gold/d.shares:null}));
 const metrics={value_gold:['Wartość spółki','Gold',2],shares:['Wyemitowane akcje','akcje',0],leandro_shares:['Akcje Leandro Daniels','akcje',0],ownership:['Udział Leandro','%',2],perShare:['Wartość aktywów na akcję','Gold/akcję',4],factories:['Fabryki','fabryki',0]};
